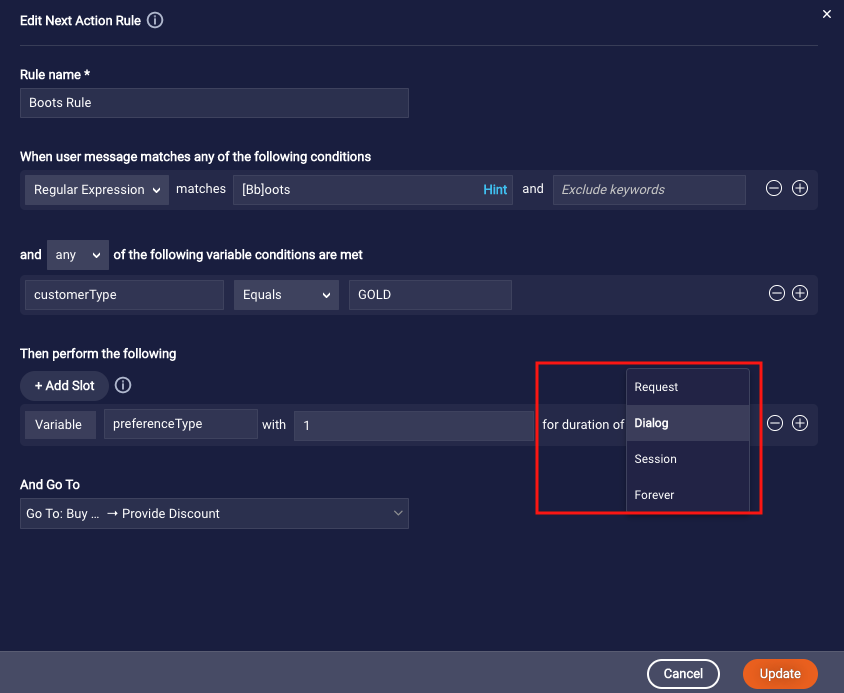
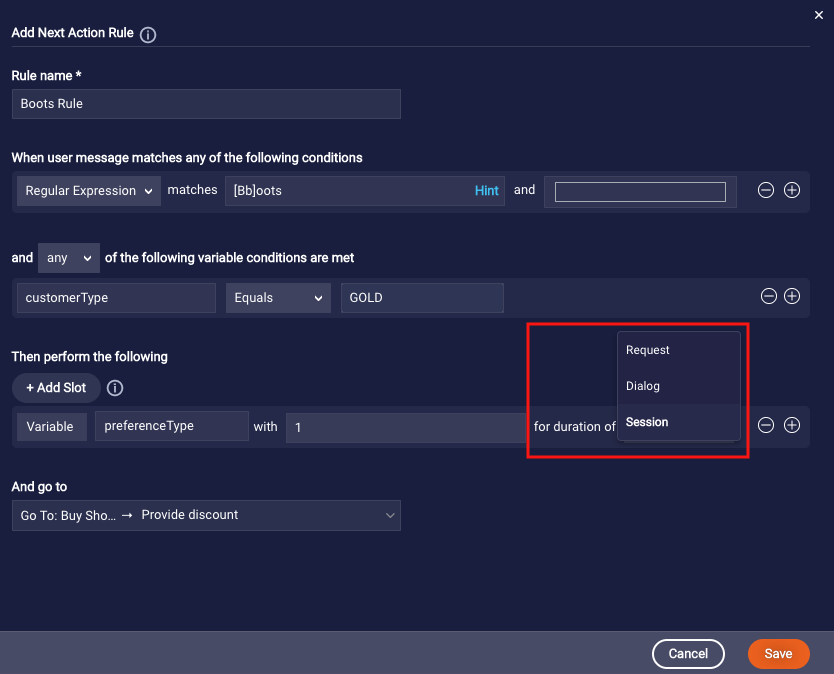
Remove Forever UI option

diff --git a/pages/Documents/ConversationalAI/ConversationBuilder/variables-slots.md b/pages/Documents/ConversationalAI/ConversationBuilder/variables-slots.md
@@ -112,7 +112,7 @@ When you define a variable or slot, you specify how long to keep the stored data
 
 <img class="fancyimage" width="800" src="img/ConvoBuilder/variablesSlotsDuration.png">
 
-There are four options for the duration:
+There are three options for the duration:
 
 * **Request**: The data will be saved for that particular use of the variable or slot. This option is only useful if the next question in the tree depends on the data.
 
@@ -120,7 +120,7 @@ There are four options for the duration:
 
 * **Session**: The data will be saved for the entirety of the consumer's browser session. This is useful when using the data to query APIs and retrieve information that might be useful for multiple dialogs.
 
-* **Forever**: The data will be saved and accessible by the bot for 180 days. **Note**: The "Forever" option will be deprecated in a future release. Use of the [Context Session Store](conversation-builder-scripting-functions-manage-the-context-session-store.html) instead of this option is recommended.
+If you need to store data for the long term, use the [Context Session Store](conversation-builder-scripting-functions-manage-the-context-session-store.html).
 
 ### Displaying data to the consumer
 
